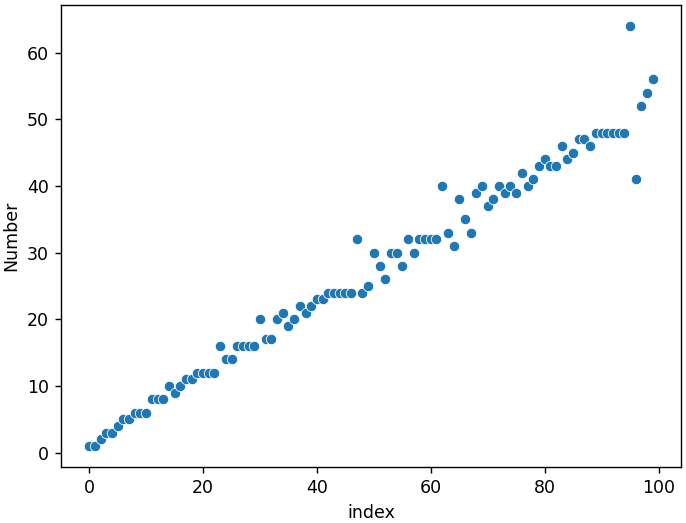
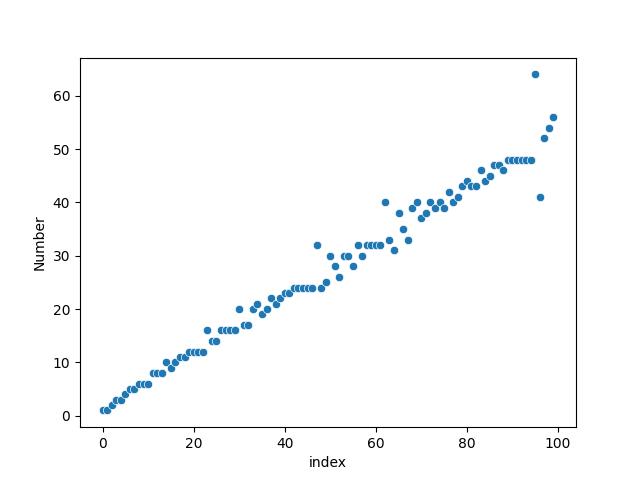
edit README.md

diff --git a/hofstadters_sequence.py b/hofstadters_sequence.py
@@ -15,7 +15,7 @@ def generate_hofstadter(n):
         a.append(a[i - a[i - 1]] + a[i - a[i - 2]])
     return a
 
-print(generate_hofstadter(20))
+print(generate_hofstadter(100))
 
 # Basic Scatter Plots
 n = 10
@@ -23,6 +23,7 @@ sequence = generate_hofstadter(n)
 df = pd.DataFrame(sequence, columns=["Number"])
 df['index'] = [i for i in range(n)]
 sns.scatterplot(x="index", y="Number", data=df)
+plt.savefig("images/10.png")
 plt.show()
 
 n = 100
@@ -30,6 +31,7 @@ sequence = generate_hofstadter(n)
 df = pd.DataFrame(sequence, columns=["Number"])
 df['index'] = [i for i in range(n)]
 sns.scatterplot(x="index", y="Number", data=df)
+plt.savefig("images/100.png")
 plt.show()
 
 n = 1000
@@ -37,6 +39,7 @@ sequence = generate_hofstadter(n)
 df = pd.DataFrame(sequence, columns=["Number"])
 df['index'] = [i for i in range(n)]
 sns.scatterplot(x="index", y="Number", data=df)
+plt.savefig("images/1000.png")
 plt.show()
 
 n = 10000
@@ -44,6 +47,7 @@ sequence = generate_hofstadter(n)
 df = pd.DataFrame(sequence, columns=["Number"])
 df['index'] = [i for i in range(n)]
 sns.scatterplot(x="index", y="Number", data=df)
+plt.savefig("images/10000.png")
 plt.show()
 
 n = 100000
@@ -51,4 +55,5 @@ sequence = generate_hofstadter(n)
 df = pd.DataFrame(sequence, columns=["Number"])
 df['index'] = [i for i in range(n)]
 sns.scatterplot(x="index", y="Number", data=df)
+plt.savefig("images/100000.png")
 plt.show()

diff --git a/README.md b/README.md
@@ -1,7 +1,7 @@
 # hofstaders-sequence
 This script generates [Hofstadter's sequence](https://www.youtube.com/watch?v=j0o-pMIR8uk). 
 
-output: `[1, 1, 2, 3, 3, 4, 5, 5, 6, 6, 6, 8, 8, 8, 10, 9, 10, 11, 11, 12]`
+output: `[1, 1, 2, 3, 3, 4, 5, 5, 6, 6, 6, 8, 8, 8, 10, 9, 10, 11, 11, 12, 12, 12, 12, 16, 14, 14, 16, 16, 16, 16, 20, 17, 17, 20, 21, 19, 20, 22, 21, 22, 23, 23, 24, 24, 24, 24, 24, 32, 24, 25, 30, 28, 26, 30, 30, 28, 32, 30, 32, 32, 32, 32, 40, 33, 31, 38, 35, 33, 39, 40, 37, 38, 40, 39, 40, 39, 42, 40, 41, 43, 44, 43, 43, 46, 44, 45, 47, 47, 46, 48, 48, 48, 48, 48, 48, 64, 41, 52, 54, 56]`
 
 # Plotting with Seaborn
 ## Basic Scatterplots
